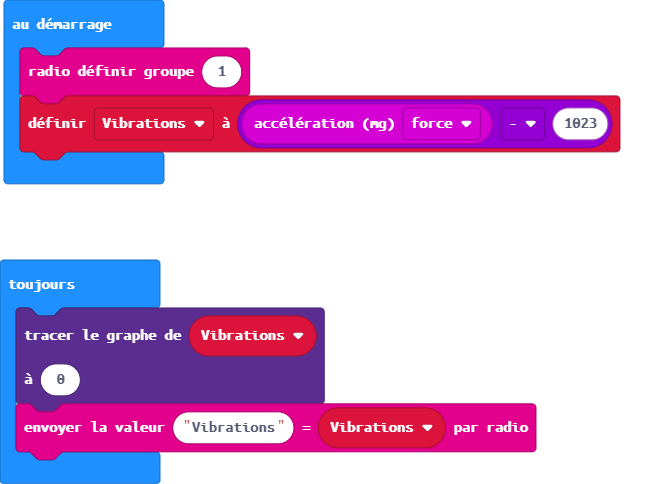
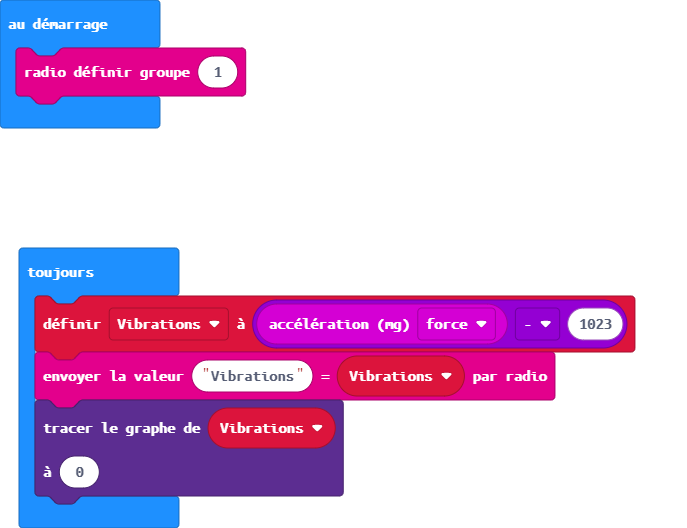
Mise à jour main.blocks, main.ts

diff --git a/main.ts b/main.ts
@@ -1,9 +1,10 @@
+let Vibrations = 0
 radio.setGroup(1)
-let Vibrations = input.acceleration(Dimension.Strength) - 1023
 basic.forever(function () {
+    Vibrations = input.acceleration(Dimension.Strength) - 1023
+    radio.sendValue("Vibrations", Vibrations)
     led.plotBarGraph(
     Vibrations,
     0
     )
-    radio.sendValue("Vibrations", Vibrations)
 })
